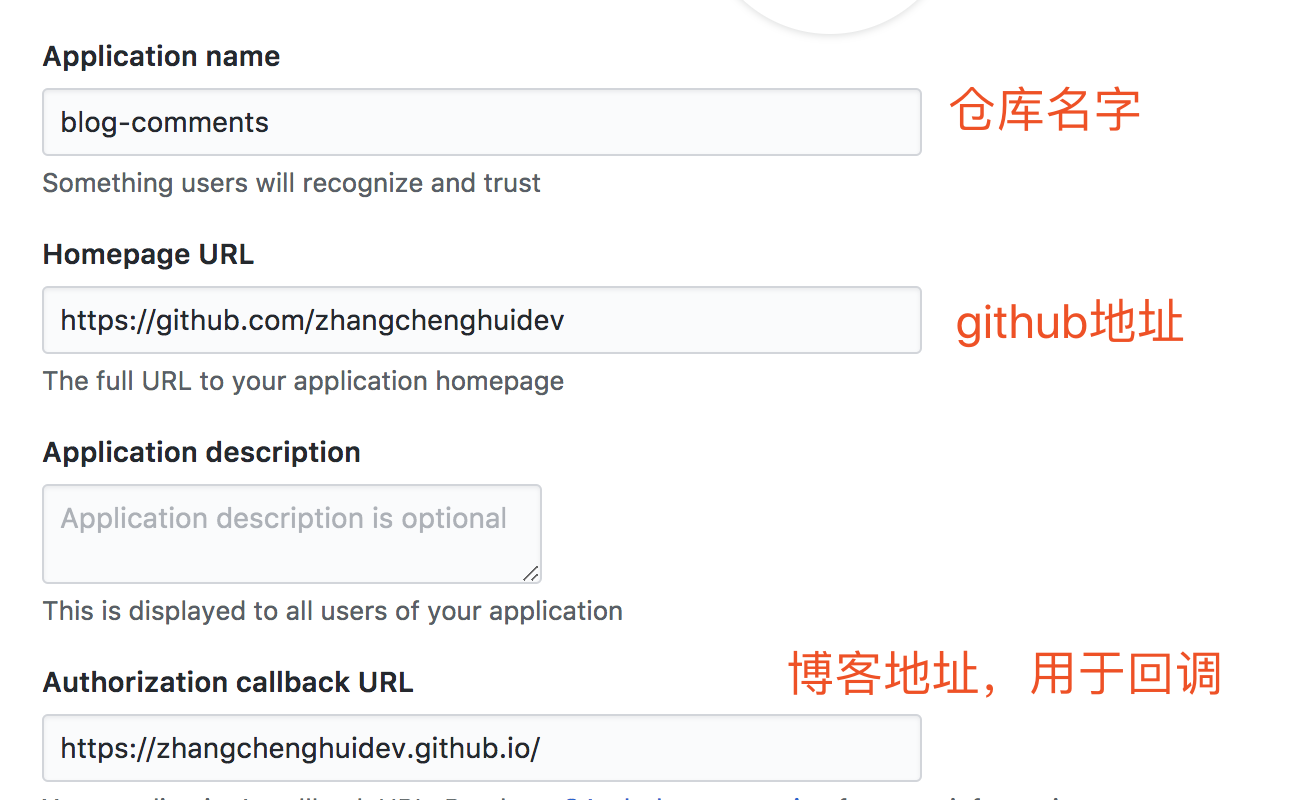
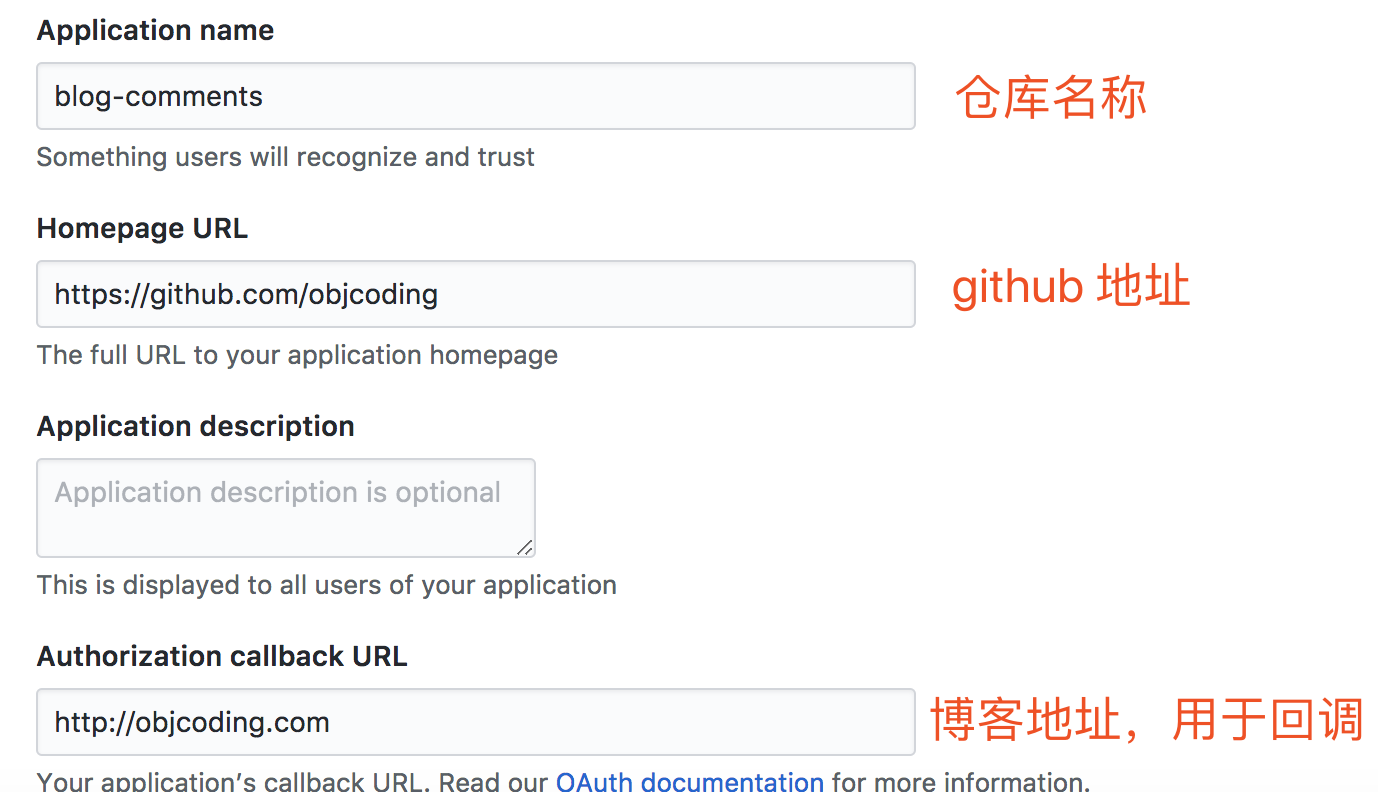
no message

diff --git a/_posts/2017-07-04-Talking about the synchronized and volatile keywords in multithreading.md b/_posts/2017-07-04-Talking about the synchronized and volatile keywords in multithreading.md
@@ -18,9 +18,13 @@ synchronized主要为线程提供同步功能，而volatile主要是设置参数
 
 在并发编程过程中，很多会涉及到线程安全问题，“非线程安全”指的是多个线程访问同一个对象中的实例变量进行并发访问时发生的“脏读”，而“线程安全”指的是多个线程同时访问的变量为私有变量，并不会共享，不会产生脏读现象，也就是说如果变量在方法内，就不会产生“非线程安全”的问题了。为了解决示例变量可能出现的“非线程安全”的问题，我们需多线程关键字synchronized。
 
-java中，每一个对象有且仅有一个同步锁。这也意味着，同步锁是依赖于对象而存在。当我们调用某对象的synchronized方法时，就获取了该对象的同步锁。例如，synchronized(obj)就获取了“obj这个对象”的同步锁。不同线程对同步锁的访问是互斥的。也就是说，某时间点，对象的同步锁只能被一个线程获取到！通过同步锁，我们就能在多线程中，实现对“对象/方法”的互斥访问。 例如，现在有两个线程A和线程B，它们都会访问“对象obj的同步锁”。假设，在某一时刻，线程A获取到“obj的同步锁”并在执行一些操作；而此时，线程B也企图获取“obj的同步锁” —— 线程B会获取失败，它必须等待，直到线程A释放了“该对象的同步锁”之后线程B才能获取到“obj的同步锁”从而才可以运行。
+java中，每一个对象有且仅有一个同步锁。这也意味着，同步锁是依赖于对象而存在。当我们调用某对象的synchronized方法时，就获取了该对象的同步锁。例如，synchronized(obj)就获取了“obj这个对象”的同步锁。不同线程对同步锁的访问
+
+是互斥的。也就是说，某时间点，对象的同步锁只能被一个线程获取到！通过同步锁，我们就能在多线程中，实现对“对象/方法”的互斥访问。 例如，现在有两个线程A和线程B，它们都会访问“对象obj的同步锁”。假设，在某一时刻，线程A获取到“obj的同步锁”并在执行一些操作；而此时，线程B也企图获取“obj的同步锁” —— 线程B会获取失败，它必须等待，直到线程A释放了“该对象的同步锁”之后线程B才能获取到“obj的同步锁”从而才可以运行。
 
 ### synchronized语句块
+
+参考原文地址：http://blog.csdn.net/luoweifu/article/details/46613015
 
 我们来看一个例子：
 
@@ -230,6 +234,8 @@ volatile long s = 0L;
 s变量就拥有了可见性的特征，也就是说s变量在任意线程中被修改了，会立马刷新主内存去s变量的值，使之时刻保持最新的值，**这里有个很重要的特性，就是不仅会立马刷新主内存区的值，还会使其它线程的私有s变量值失效，这样线程就不得不又从主内中再次读取s变量的值，这样，就保持了s变量的可见性**。
 
 **但是！volatile有一个致命的缺点，就是它无法保证变量的原子性**，我们举个栗子：
+
+参考原文地址：http://www.cnblogs.com/aigongsi/archive/2012/04/01/2429166.html
 
 ```java
 public class Counter {

diff --git a/_posts/2017-05-27-Shiro(1).md b/_posts/2017-05-27-Shiro(1).md
@@ -384,3 +384,12 @@ public class AuthRealm extends AuthorizingRealm {
 ## 总结
 
 通过SubjectUtils获取subject实例，并调用login()方法开始shiro身份验证，login()方法会委托给SecurityManager安全管理器的login()方法，之后SecurityManager会调用自定义Realm类的doGetAuthenticationInfo()方法进行身份验证，当身份验证不通过则抛出异常，当验证逻辑通过后，会把用户名和密码放到SimpleAuthenticationInfo中，Shiro会自动根据用户输入的密码和查询到的密码进行匹配，如果密码匹配，执行doGetAuthorizationInfo()进行相应的权限验证。doGetAuthorizationInfo()方法的处理逻辑也比较简单，根据用户名获取到他所拥有的角色以及权限，然后赋值到SimpleAuthorizationInfo对象中即可，Shiro就会按照我们配置的XX角色对应XX权限来进行判断。接下来为系统资源配置指定权限树。这样，身份验证与授权流程基本完成。
+
+
+
+参考原文地址：
+
+http://jinnianshilongnian.iteye.com/blog/2019547
+
+http://jinnianshilongnian.iteye.com/blog/2020017
+

diff --git a/_posts/2017-11-28-Gitalk.md b/_posts/2017-11-28-Gitalk.md
@@ -52,8 +52,8 @@ gitalk:
   clientID: 'your clientID' #OAuth Application
   clientSecret: 'your clientSecret' #OAuth Application
   repo: blog-comments #刚创建用于gitalk Issue的仓库名称
-  owner: zhangchenghuidev  #github用户名
-  admin: zhangchenghuidev  #github用户名
+  owner: objcoding  #github用户名
+  admin: objcoding  #github用户名
   distractionFreeMode: true # 类似于Facebook的阴影效果
   labels: ['Gitalk']  # 用于生成Issue的标签
   id:  # 页面唯一标示

diff --git a/_posts/2017-07-03-JDBC.md b/_posts/2017-07-03-JDBC.md
@@ -399,5 +399,5 @@ private void coreConnect(Properties mergedProps) throws SQLException, IOExceptio
 
 到这里，我们发现获取MySql链接实通过DriverManager.getConnection()-->调用com.mysql.jdbc.Driver驱动-->创建Connection实现类，并通过指定的IP，端口获取与数据库的Socket链接。
 
-
+参考原文地址：http://blog.csdn.net/qh_java/article/details/50390038
 

diff --git a/_posts/2017-06-15-SpringMVC processing request process.md b/_posts/2017-06-15-SpringMVC processing request process.md
@@ -217,7 +217,7 @@ protected void doDispatch(HttpServletRequest request, HttpServletResponse respon
 
 ## doDispatch()流程解析
 
-
+参考原文地址：http://jinnianshilongnian.iteye.com/blog/1594806
 
 ![SpringMVC工作流程](https://raw.githubusercontent.com/zchdjb/zchdjb.github.io/master/images/springmvc.png)
 
